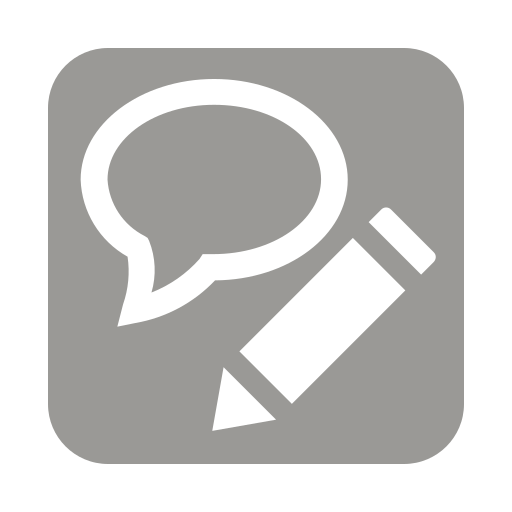
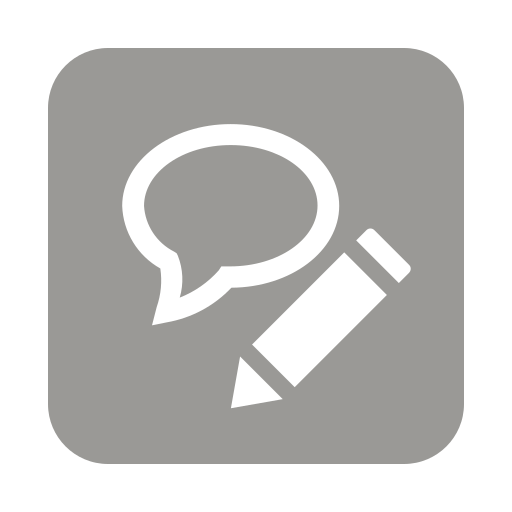
Commit 20
- Emblems have been made more consistent with default themes
- Code review

diff --git a/src/nautilus-annotations.c b/src/nautilus-annotations.c
@@ -287,7 +287,7 @@ static guint erase_annotations_in_files (
 
 
 static void v_erase_annotations_in_files (
-    const gpointer file_selection
+	const gpointer file_selection
 ) {
 
 	erase_annotations_in_files(file_selection);
@@ -462,7 +462,7 @@ static void on_annotation_dialog_response (
 	NautilusAnnotationsSession * const session
 ) {
 
-    UNUSED(dialog);
+	UNUSED(dialog);
 
 	switch (response_id) {
 
@@ -661,10 +661,9 @@ static void annotation_session_new_with_text (
 	}
 
 	#define a8n_title_wgt __tmpwidget1__
+	#define a8n_title_lbl __tmpwidget2__
 
 	a8n_title_wgt = gtk_box_new(GTK_ORIENTATION_VERTICAL, 0);
-
-	#define a8n_title_lbl __tmpwidget2__
 
 	a8n_title_lbl = gtk_label_new(header_title);
 
@@ -679,21 +678,23 @@ static void annotation_session_new_with_text (
 	#define a8n_subtitle_lbl __tmpwidget2__
 
 	a8n_subtitle_lbl = gtk_label_new(header_subtitle);
+
 	gtk_style_context_add_class(
 		gtk_widget_get_style_context(a8n_subtitle_lbl),
 		"subtitle"
 	);
+
 	gtk_box_append(GTK_BOX(a8n_title_wgt), a8n_subtitle_lbl);
 
 	#undef a8n_subtitle_lbl
-	#define a8n_header __tmpwidget2__
 
 	gtk_widget_set_valign(a8n_title_wgt, GTK_ALIGN_CENTER);
-	a8n_header = gtk_dialog_get_header_bar(GTK_DIALOG(a8n_dialog));
-	gtk_header_bar_set_title_widget(GTK_HEADER_BAR(a8n_header), a8n_title_wgt);
-	gtk_window_set_titlebar(GTK_WINDOW(a8n_dialog), a8n_header);
 
-	#undef a8n_header
+	gtk_header_bar_set_title_widget(
+		GTK_HEADER_BAR(gtk_dialog_get_header_bar(GTK_DIALOG(a8n_dialog))),
+		a8n_title_wgt
+	);
+
 	#undef a8n_title_wgt
 
 	g_free(tmpbuf);
@@ -800,7 +801,7 @@ static void annotation_session_new_with_text (
 
 
 static void annotation_session_preview_destroy (
-    const gpointer session_preview
+	const gpointer session_preview
 ) {
 
 	nautilus_file_info_list_free(
@@ -991,8 +992,8 @@ static GList * nautilus_annotations_get_file_items (
 
 	UNUSED(menu_provider);
 
-	GtkWindow *
-		nautilus_window = gtk_application_get_active_window(nautilus_app);
+	GtkWindow * nautilus_window =
+		gtk_application_get_active_window(nautilus_app);
 
 	#define NA_IS_FILE_SELECTION 1
 	#define NA_IS_DIRECTORY_SELECTION 2
